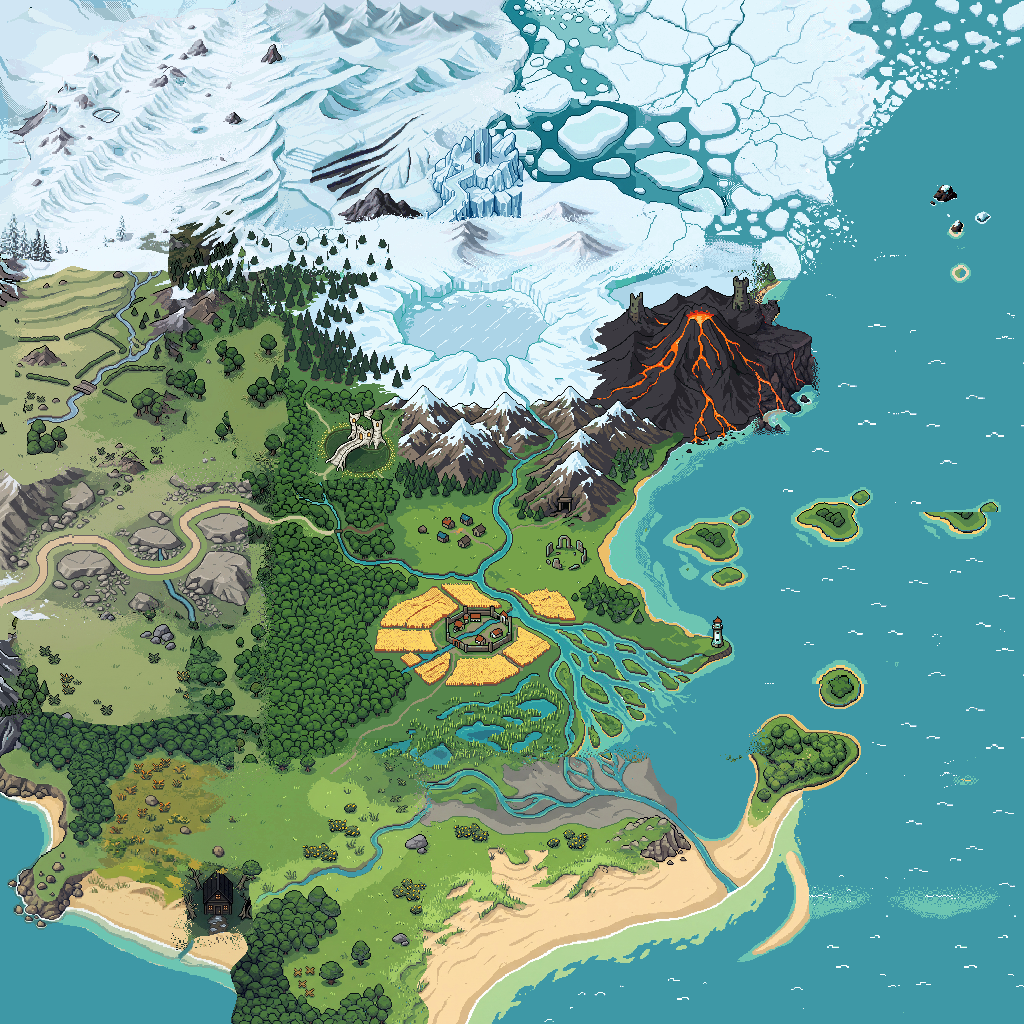
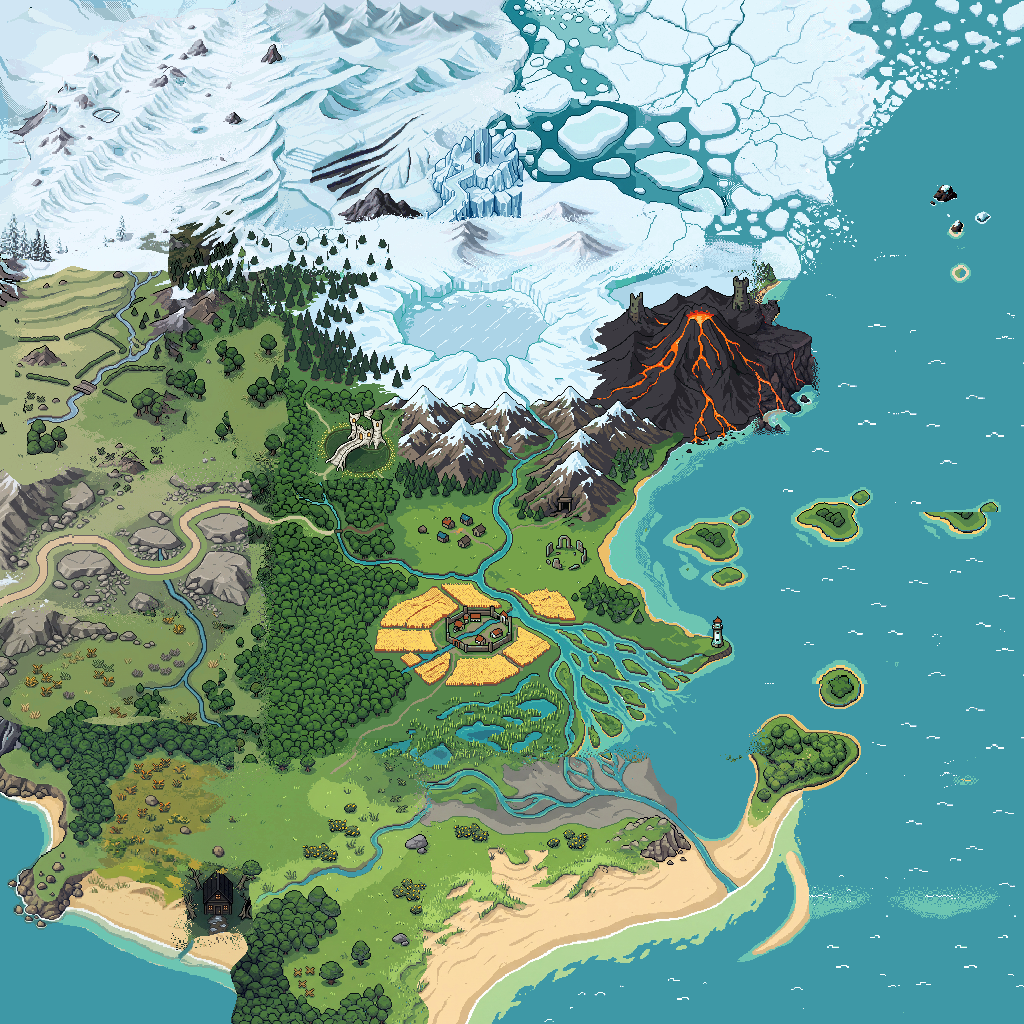
EPO03 west: WC accepted — the y=700 join with the south is bridged, the dead downs are ground again, the beck runs

Changed region(s): [[0.0, 0.5938, 0.2188, 0.7188]]

diff --git a/GAME_BIBLE/ART/exploration/EPO03/ledger/WORLD_WEST.md b/GAME_BIBLE/ART/exploration/EPO03/ledger/WORLD_WEST.md
@@ -10,3 +10,4 @@ physical iPhone remains the authority.
 | 7fb79946-a866-484d-a52a-1700e4f04c77 | inpaint_image | 160x280 (WA, mask 80x194 @40,40, seed 801, crop @83c9132) | 25 | ACCEPT | WA roll 1 — the vertical canopy wall at x~256 is gone: the edge bays in around atlas y 370-450, a promontory pushes west at y 460-520, stepping copses walk the meadow west. Firs above, oaks below, one hand. changed-outside-mask 2962 (blocked by the mask, not shipped); dup sprite pairs 0; orphan flecks 369, all in the frozen snowfield/fir stipple north of the rect. `--check` green, 1971 files. Evidence: review/atlas/WA_r1_x2.png, WA_preview_fov_x2.png, WA_after_x2.png |
 | b86789dc-662a-43ab-8d49-3f418603b88e | inpaint_image | 344x252 (WB, mask 260x172 @0,40, seed 811, crop @c615db5) | 40 | REJECT | WB roll 1 — three faults. (a) The road was **re-drawn**, not kept: measured entry at the west edge moved from y=602 to y=534 and the whole loop flattened to a near-ruler line at y~533-542; the caravan corridor and all four goldens would be re-cut for no gain, and a straight road across the FOV is worse than the S-bend it replaced. (b) Dialect: the ranges are tall, densely hatched alpine ridges, a different hand from the atlas's flat three-value facets, and far too tall for the scale. (c) The rock mass runs flat into the mask rect's top and bottom edges and is cut horizontally there. Intent changed, not the seed: a custom inpaint mask (`src/atlas/WB_inpaint_mask.png`, road + 7 px frozen black, 37,323 white of 44,720) makes the road un-redrawable, and the prompt asks for low flat-faceted knolls in the peak's own style with pasture held at the top and bottom edges. Sheet: review/atlas/WB_r1_x2.png |
 | 16afb5a9-2445-442d-b439-22d7bb808590 | inpaint_image | 344x252 (WB, custom mask WB_inpaint_mask.png @39724941, seed 812) | 40 | ACCEPT | WB roll 2 — the road is **byte-identical** to the crop at every sample (x=0 y599-605 … x=258 y513-520), so `caravan_corridor`, `west_caravan_road`, `stag_box` and `roadjoin_corridor_west` keep road under them and the overlay caravan route is unmoved; the four goldens were still re-extracted (the terrain beside the road changed: 1,853 px drift on `roadjoin_corridor_west`), registry rects unchanged because the feature did not move. Every bend now turns around a rock outcrop or a stream crossing; a beck leaves the ford and runs south to (193,620); scree and boulders thicken westward to the range. The isolated pasted peak at (210,590) is **gone rather than integrated** — replaced by outcrops that belong to the foothills. changed-outside-mask 2,968 (blocked); dup sprite pairs 0; orphan flecks 529, overwhelmingly the scree stipple the region is made of. Debt closed by WC: the beck ends at y=620 in open grass. `--check` green, 2,203 files. Evidence: review/atlas/WB_r2_x2.png, WB_preview_fov_x2.png, WB_after_x2.png |
+| fa915cad-05b2-495e-956e-d5e751c27836 | inpaint_image | 288x220 (WC, mask 232x140 @0,40, seed 821, crop @cb9816a) | 25 | ACCEPT | WC roll 1 — the y=700 join is closed. S3's wood, which stopped on a near-horizontal edge at y~720, now breaks north into the downs as bays, promontories and outlying copses; the dead pale downland (dominant #9dab70) carries gorse, heather, bracken, tussock and boulder trains out of the crag; WB's beck no longer ends at (193,620) — it runs on through the heath and into the wood, one continuous watercourse from the ford to the trees. Both sides of the join authored inside one rect, S3 not re-touched. changed-outside-mask 2,005 (blocked); dup sprite pairs 0; orphan flecks 333 (gorse and boulder stipple). `--check` green, 2,203 files. Evidence: review/atlas/WC_r1_x2.png, WC_preview_fov_x2.png, WC_after_x2.png |
